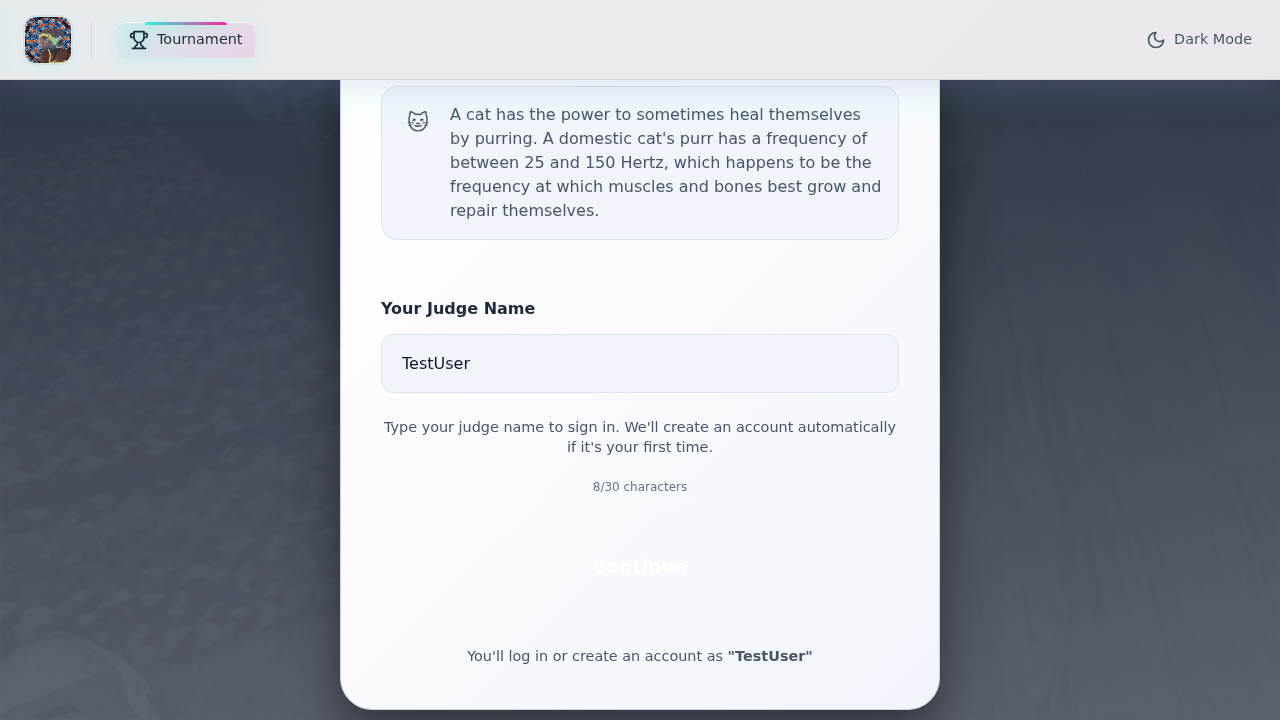
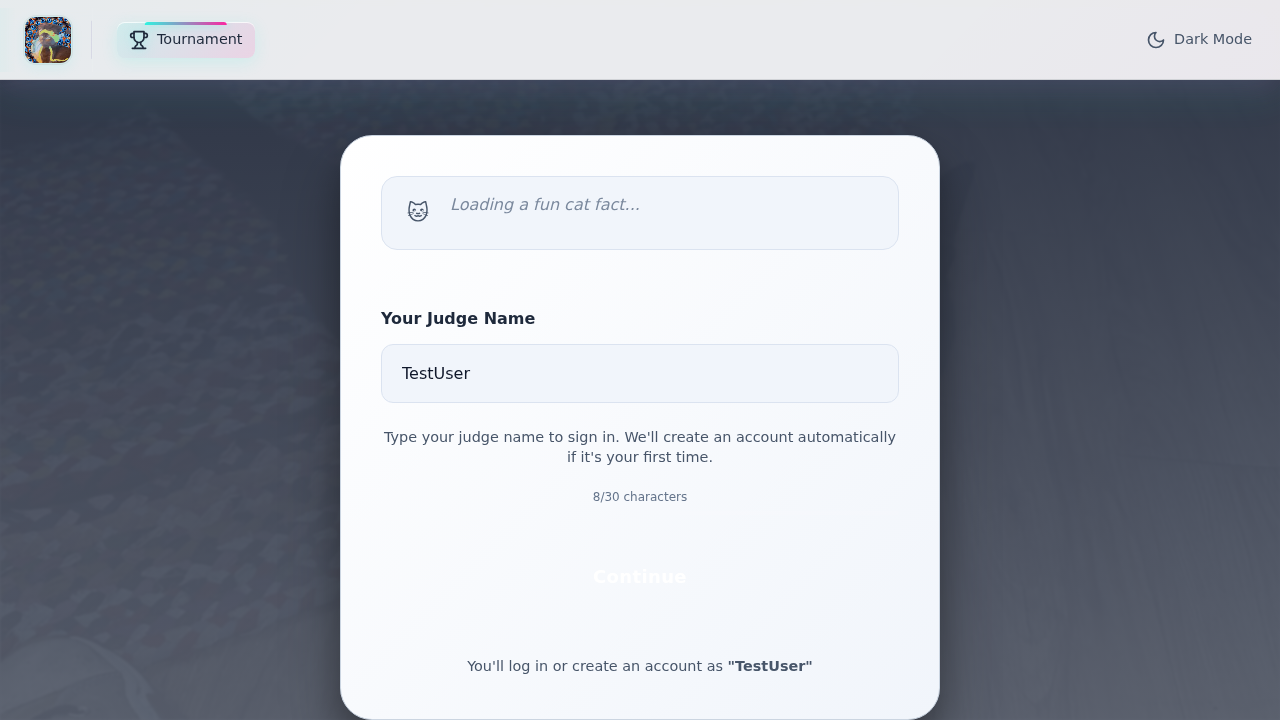
Improve mobile device usability
- Remove btn-glow class from login button
- Add responsive CSS improvements for mobile sidebar

diff --git a/src/shared/styles/responsive-global.css b/src/shared/styles/responsive-global.css
@@ -49,13 +49,13 @@
 
   /* Mobile form improvements - Updated to 48x48px minimum */
   .input {
-    min-height: var(--mobile-touch-target-min);
+    min-height: var(--mobile-input-height);
     padding: var(--space-3) var(--space-4);
     font-size: var(--text-base);
     color: var(--text-primary);
     background: var(--surface-color);
     border: 2px solid var(--border-color);
-    border-radius: var(--radius-md);
+    border-radius: var(--mobile-border-radius);
   }
 
   .input:focus {
@@ -98,7 +98,7 @@
   input[type='number'],
   textarea,
   select {
-    min-height: var(--mobile-touch-target-min);
+    min-height: var(--mobile-input-height);
   }
 
   /* Ensure proper spacing between interactive elements */
@@ -110,7 +110,7 @@
 
   /* Improve form layout on mobile */
   .form-group {
-    margin-bottom: var(--space-4);
+    margin-bottom: var(--mobile-margin);
   }
 
   .form-group label {
@@ -123,8 +123,9 @@
   .card,
   .name-card,
   .tournament-card {
-    padding: var(--space-4);
-    margin-bottom: var(--space-4);
+    padding: var(--mobile-card-padding);
+    margin-bottom: var(--mobile-margin);
+    border-radius: var(--mobile-border-radius);
   }
 
   /* Improve mobile list spacing */

diff --git a/src/shared/components/AppSidebar/AppSidebar.css b/src/shared/components/AppSidebar/AppSidebar.css
@@ -592,3 +592,44 @@
   ) !important;
   box-shadow: 0 4px 12px rgb(220 38 38 / 15%) !important;
 }
+
+/* Responsive improvements for mobile */
+@media (width <= 768px) {
+  .app-sidebar {
+    min-height: 60px;
+    padding: 0 var(--mobile-padding);
+  }
+
+  .sidebar-logo {
+    padding: 0;
+    margin-right: 0;
+    border-right: none;
+  }
+
+  .sidebar-logo::after {
+    display: none;
+  }
+
+  .sidebar-logo-button {
+    padding: 0.25rem;
+  }
+
+  .sidebar-logo-video {
+    width: 2rem;
+    height: 2rem;
+  }
+
+  .sidebar-logo-text {
+    display: none;
+  }
+
+  .navbar-breadcrumb,
+  .sidebar-user-info,
+  .sidebar-admin-badge {
+    display: none;
+  }
+
+  .navbar-section {
+    gap: 0.5rem;
+  }
+}

diff --git a/src/shared/components/NameCard/NameCard.module.css b/src/shared/components/NameCard/NameCard.module.css
@@ -920,3 +920,32 @@
   background: var(--primary-50);
   border-radius: var(--radius-sm);
 }
+
+/* Mobile-specific enhancements */
+@media (width <= 768px) {
+  .card {
+    padding: var(--mobile-card-padding);
+    border-radius: var(--mobile-border-radius);
+  }
+
+  .name {
+    font-size: 1.25rem;
+  }
+
+  .description {
+    font-size: 0.875rem;
+  }
+
+  .tooltip {
+    display: none;
+  }
+
+  .card:hover {
+    transform: none;
+    box-shadow: 0 8px 28px rgb(0 0 0 / 15%);
+  }
+
+  .card:active {
+    transform: scale(0.98);
+  }
+}

diff --git a/src/features/auth/Login.jsx b/src/features/auth/Login.jsx
@@ -362,7 +362,7 @@ function Login({ onLogin }) {
                   disabled={isLoading}
                   size="large"
                   endIcon={name.trim() ? null : <span aria-hidden="true">🏆</span>}
-                  className={`${name.trim() ? styles.hasName : ""} btn-glow`}
+                  className={`${name.trim() ? styles.hasName : ""}`}
                 >
                   {name.trim() ? "Continue" : "Get Random Name & Start"}
                 </Button>

diff --git a/src/shared/styles/responsive-variables.css b/src/shared/styles/responsive-variables.css
@@ -1,6 +1,6 @@
 /* CSS Custom Properties for responsive design */
 :root {
-  --mobile-touch-target-min: clamp(3rem, 9vw, 3.5rem);
+  --mobile-touch-target-min: 48px;
   --mobile-touch-target-large: clamp(3.5rem, 10vw, 3.75rem);
   --mobile-content-padding: clamp(4rem, 14vw, 5rem);
   --mobile-safe-spacing: clamp(1rem, 6vw, 1.5rem);

diff --git a/verification/verify_button_style.py b/verification/verify_button_style.py
@@ -6,9 +6,6 @@ async def main():
         browser = await p.chromium.launch(headless=True)
         page = await browser.new_page()
 
-        # Route interception to block Supabase requests
-        await page.route("**/supabase.co/**", lambda route: route.abort())
-
         try:
             await page.goto("http://localhost:8080/", timeout=60000)
             print("Successfully navigated to the page.")
@@ -18,14 +15,24 @@ async def main():
             await page.wait_for_selector(login_input_selector, timeout=30000)
             print("Login page loaded.")
 
-            # Fill in the judge name and click continue
-            await page.fill(login_input_selector, "TestUser")
-            await page.click('button:has-text("Continue")')
+            # Type in the judge name to ensure React state updates
+            await page.type(login_input_selector, "TestUser")
+            
+            # Wait for the button to be enabled before clicking
+            continue_button_selector = 'button:has-text("Continue")'
+            await page.wait_for_selector(f"{continue_button_selector}:not([disabled])", timeout=5000)
+            print("Continue button is enabled.")
+            
+            await page.click(continue_button_selector, force=True)
             print("Logged in.")
+            
+            # Wait for the next page to load by waiting for a specific element
+            await page.wait_for_selector("h1:has-text('🏆 Cat Name Tournament')", timeout=30000)
+            print("Navigated to the main application page.")
 
             # Take a screenshot immediately after login for debugging
             await page.screenshot(path="verification/post_login_debug.png")
-            print("Screenshot taken immediately after login.")
+            print("Screenshot taken after navigation.")
 
         except TimeoutError as e:
             print(f"A timeout error occurred: {e}")
